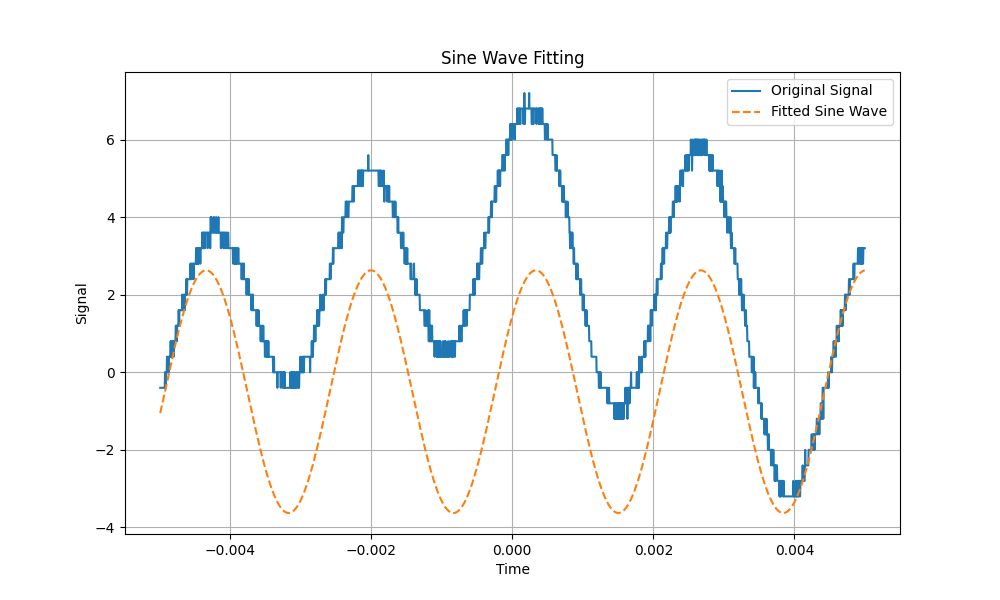
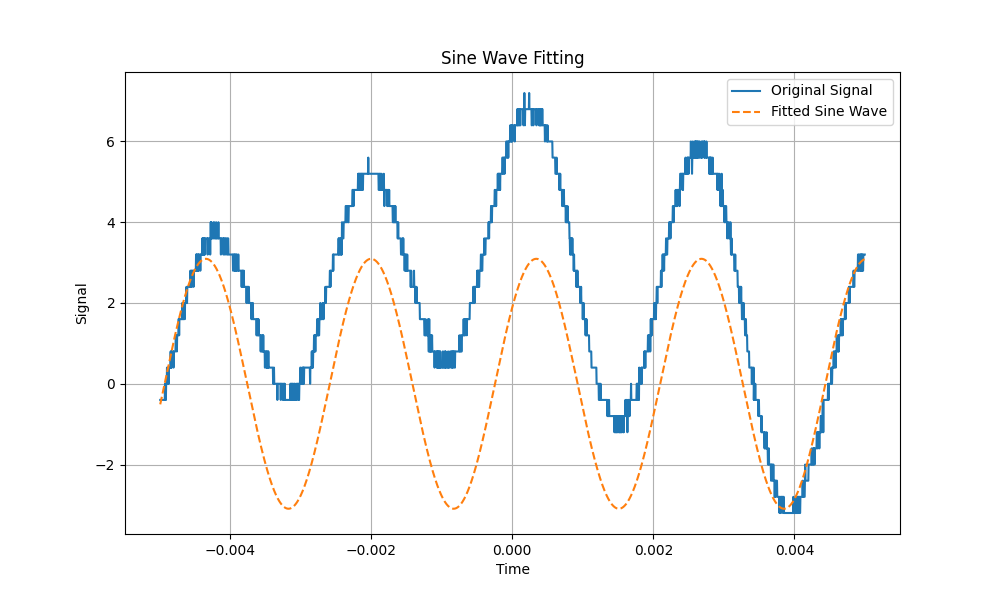
Final changes to the analysis, added graphs

diff --git a/scripts/analysis/SNR_analysis.py b/scripts/analysis/SNR_analysis.py
@@ -58,11 +58,20 @@ def calculate_snr(signal, noise):
 
     Returns:
     - snr: Signal-to-Noise Ratio in dB
+    - snr_error: Error in the SNR value in dB
     """
     signal_power = np.mean(signal ** 2)
     noise_power = np.mean(noise ** 2)
     snr = 10 * np.log10(signal_power / noise_power)
-    return snr
+
+    # Assume a percentage error for signal and noise power
+    error_percentage = 0.005  # 0.5%
+    sigma_signal = signal_power * error_percentage
+    sigma_noise = noise_power * error_percentage
+
+    # Error propagation for SNR in dB
+    snr_error = (10 / np.log(10)) * np.sqrt((sigma_signal / signal_power) ** 2 + (sigma_noise / noise_power) ** 2)
+    return snr, snr_error
 
 def calculate_average_power_ratio(signal, noise):
     """
@@ -103,16 +112,15 @@ def plot_signal_and_noise(time, signal, noise, output_path, title='Signal and No
     plt.close()
     print(f"Saved plot to {output_path}")
 
-def process_files(input_dir, output_dir, cutoff_frequency, sampling_frequency, output_file):
+def process_files(input_dir, output_dir, cutoff_frequency, sampling_frequency):
     """
-    Process all CSV files in the input directory and save the analysis results to an output file.
+    Process all CSV files in the input directory and print the analysis results to the terminal.
 
     Parameters:
     - input_dir: Path to the input directory containing CSV files
     - output_dir: Path to the output directory to save plot images
     - cutoff_frequency: Cutoff frequency for the high-pass filter in Hz
     - sampling_frequency: Sampling frequency in Hz
-    - output_file: Path to the output CSV file to save analysis results
     """
     # Set up logging
     logging.basicConfig(level=logging.INFO, format='%(asctime)s - %(levelname)s - %(message)s')
@@ -127,8 +135,6 @@ def process_files(input_dir, output_dir, cutoff_frequency, sampling_frequency, o
         logging.info(f"No CSV files found in {input_dir}")
         return
 
-    results = []
-
     for file_path in csv_files:
         try:
             # Load data
@@ -137,18 +143,17 @@ def process_files(input_dir, output_dir, cutoff_frequency, sampling_frequency, o
             # Estimate noise using a high-pass filter
             estimated_noise = high_pass_filter(signal, cutoff_frequency, sampling_frequency)
 
-            # Calculate SNR
-            snr = calculate_snr(signal, estimated_noise)
+            # Calculate SNR and its error
+            snr, snr_error = calculate_snr(signal, estimated_noise)
 
             # Calculate average power ratio
             power_ratio = calculate_average_power_ratio(signal, estimated_noise)
 
-            # Append results
-            results.append({
-                'File': os.path.basename(file_path),
-                'SNR (dB)': snr,
-                'Average Power Ratio (Noise/Signal)': power_ratio
-            })
+            # Print results to the terminal
+            print(f"Results for {os.path.basename(file_path)}:")
+            print(f"  SNR (dB): {snr:.2f}")
+            print(f"  SNR Error (dB): {snr_error:.2f}")
+            print(f"  Average Power Ratio (Noise/Signal): {power_ratio:.10f}")
 
             # Plot signal and noise
             output_plot_path = os.path.join(output_dir, f"{os.path.splitext(os.path.basename(file_path))[0]}_plot.png")
@@ -159,15 +164,9 @@ def process_files(input_dir, output_dir, cutoff_frequency, sampling_frequency, o
         except Exception as e:
             logging.error(f"Error processing {file_path}: {e}")
 
-    # Save results to a CSV file
-    results_df = pd.DataFrame(results)
-    results_df.to_csv(output_file, index=False)
-    logging.info(f"Saved analysis results to {output_file}")
-
 # Example usage
 input_dir = '../../data/FinalData'
 output_dir = '../../data/FinalData/SNR_Plots'
 cutoff_frequency = 50  # Cutoff frequency for the high-pass filter in Hz
 sampling_frequency = 1000  # Sampling frequency in Hz
-output_file = '../../data/FinalData/SNR_results.csv'
-process_files(input_dir, output_dir, cutoff_frequency, sampling_frequency, output_file)
+process_files(input_dir, output_dir, cutoff_frequency, sampling_frequency)

diff --git a/scripts/analysis/strain_calc.py b/scripts/analysis/strain_calc.py
@@ -6,7 +6,9 @@ import os
 # Constants
 wavelength = 632.8e-9  # Wavelength of the laser in meters
 I0 = 1  # Maximum intensity (assuming normalized intensity)
-arm_length = 1.0  # Length of the interferometer arm in meters
+arm_length = 1.43  # Length of the interferometer arm in meters
+error_intensity = 0.025  # 0.5% error on intensity measurements
+error_length = 0.025  # 0.5% error on length measurements
 
 def normalize_intensity(intensity):
     """
@@ -50,6 +52,22 @@ def calculate_strain(displacement, arm_length):
     strain = displacement / arm_length
     return strain
 
+def error_propagation(intensity, displacement, arm_length):
+    """
+    Perform error propagation to calculate the error in strain.
+
+    Parameters:
+    - intensity: Signal intensity array
+    - displacement: Displacement array in meters
+    - arm_length: Length of the interferometer arm in meters
+
+    Returns:
+    - error_strain: Error in strain array
+    """
+    error_displacement = (wavelength / (4 * np.pi)) * (1 / np.sqrt(1 - ((intensity - I0) / I0)**2)) * error_intensity
+    error_strain = np.sqrt((error_displacement / arm_length)**2 + (displacement * error_length / arm_length**2)**2)
+    return error_strain
+
 def load_data(file_path):
     """
     Load data from a CSV file.
@@ -66,21 +84,37 @@ def load_data(file_path):
     intensity = data['Signal'].values
     return time, intensity
 
-def plot_strain(time, strain, output_path=None):
+def plot_strain(time, strain, error_strain, output_path=None):
     """
-    Plot the strain.
+    Plot the strain with error lines.
 
     Parameters:
     - time: Time array
     - strain: Strain array
+    - error_strain: Error in strain array
     - output_path: Path to save the plot image (if None, display the plot)
     """
+    # Remove points with infinite values in the error
+    finite_mask = np.isfinite(error_strain)
+    time_finite = time[finite_mask]
+    strain_finite = strain[finite_mask]
+    error_strain_finite = error_strain[finite_mask]
+
     plt.figure(figsize=(10, 6))
-    plt.plot(time, strain)
-    plt.title('Strain of the Interferometer Arm')
+    plt.plot(time_finite, strain_finite, label='Strain')
+    
+    # Calculate the positive and negative error curves
+    strain_plus = strain_finite + error_strain_finite
+    strain_minus = strain_finite - error_strain_finite
+
+    plt.plot(time_finite, strain_plus, label='Positive Error', linestyle='--', color='grey', linewidth = 0.5)
+    plt.plot(time_finite, strain_minus, label='Negative Error', linestyle='--', color='grey', linewidth = 0.5)
+
+    plt.title('Strain of the Interferometer Arm with Error Lines')
     plt.xlabel('Time')
     plt.ylabel('Strain')
     plt.grid(True)
+    plt.legend()
     
     if output_path:
         plt.savefig(output_path)
@@ -119,11 +153,15 @@ def process_datasets(input_dir, output_dir):
         # Calculate the strain
         strain = calculate_strain(displacement, arm_length)
 
-        # Plot the strain
-        plot_strain(time, strain, output_path)
+        # Perform error propagation
+        error_strain = error_propagation(normalized_intensity, displacement, arm_length)
 
-        # Print the first few strain values
+        # Plot the strain with error lines
+        plot_strain(time, strain, error_strain, output_path)
+
+        # Print the first few strain values and their errors
         print(f"Strain values for {filename}: {strain[:5]}")
+        print(f"Error in strain for {filename}: {error_strain[:5]}")
 
 # Example usage
 input_dir = '../../data/FinalData'

diff --git a/scripts/analysis/curve_fit.py b/scripts/analysis/curve_fit.py
@@ -18,7 +18,7 @@ def sine(x, amp, freq, phase):
     Returns:
     - Sine wave output
     """
-    offset = -0.5  # Fixed offset
+    offset = 0  # Fixed offset
     return amp * np.sin(2 * np.pi * freq * x + phase) + offset
 
 def fit_sine(time, signal):
@@ -31,17 +31,24 @@ def fit_sine(time, signal):
 
     Returns:
     - popt: Optimal values for the parameters
-    - pcov: Covariance of the parameters
+    - perr: Standard deviation errors of the parameters
+    - chi_squared: Chi-squared value of the fit
     """
     # Initial guess for the parameters
     guess_amplitude = 6  # np.std(signal) * 2**0.5
-    guess_frequency = 450
+    guess_frequency = 400
     guess_phase = np.pi / 4
     p0 = [guess_amplitude, guess_frequency, guess_phase]
 
     # Fit the sine wave
     popt, pcov = curve_fit(sine, time, signal, p0=p0)
-    return popt, pcov
+    perr = np.sqrt(np.diag(pcov))  # Calculate the standard deviation errors
+
+    # Calculate the chi-squared value
+    residuals = signal - sine(time, *popt)
+    chi_squared = np.sum((residuals ** 2) / signal)
+
+    return popt, perr, chi_squared
 
 def plot_fit(time, signal, popt, output_path):
     """
@@ -86,7 +93,7 @@ def process_files(input_dir, output_dir):
         signal = data['Signal'].values
 
         # Fit a sine wave to the data
-        popt, pcov = fit_sine(time, signal)
+        popt, perr, chi_squared = fit_sine(time, signal)
 
         # Generate output plot path
         file_name = os.path.basename(file_path)
@@ -95,8 +102,13 @@ def process_files(input_dir, output_dir):
         # Plot the original data and the fitted sine wave
         plot_fit(time, signal, popt, output_path)
 
-        # Print the optimal parameters
-        print(f"Optimal parameters for {file_name}: Amplitude={popt[0]}, Frequency={popt[1]}, Phase={popt[2]}, Offset=-0.5")
+        # Print the optimal parameters, their errors, and the chi-squared value
+        print(f"Optimal parameters for {file_name}:")
+        print(f"  Amplitude = {popt[0]} ± {perr[0]}")
+        print(f"  Frequency = {popt[1]} ± {perr[1]}")
+        print(f"  Phase = {popt[2]} ± {perr[2]}")
+        print(f"  Offset = -0.5 (fixed)")
+        print(f"  Chi-squared = {chi_squared}")
 
 # Example usage
 input_dir = '../../data/FinalData'

diff --git a/scripts/analysis/FT_analysis.py b/scripts/analysis/FT_analysis.py
@@ -61,6 +61,7 @@ def plot_frequency_spectrum(freqs, magnitude, output_path=None):
     plt.xlabel('Frequency (Hz)')
     plt.ylabel('Magnitude')
     plt.grid(True)
+    plt.xlim(0, 5000)  # Adjust the x-axis limit to focus on the range of interest
     
     if output_path:
         plt.savefig(output_path)
@@ -68,6 +69,24 @@ def plot_frequency_spectrum(freqs, magnitude, output_path=None):
         print(f"Saved plot to {output_path}")
     else:
         plt.show()
+
+def calculate_dominant_frequency(freqs, magnitude, error_percentage=0.005):
+    """
+    Calculate the dominant frequency and its error.
+
+    Parameters:
+    - freqs: Frequencies corresponding to the FT
+    - magnitude: Magnitude of the FT
+    - error_percentage: Percentage error for all measurements
+
+    Returns:
+    - dominant_freq: Dominant frequency
+    - error_freq: Error in the dominant frequency
+    """
+    dominant_index = np.argmax(magnitude)
+    dominant_freq = freqs[dominant_index]
+    error_freq = dominant_freq * error_percentage
+    return dominant_freq, error_freq
 
 def process_datasets(input_dir, output_dir, sampling_rate, save_plots):
     """
@@ -100,13 +119,17 @@ def process_datasets(input_dir, output_dir, sampling_rate, save_plots):
             # Plot the frequency spectrum
             plot_frequency_spectrum(freqs, magnitude, output_path)
 
+            # Calculate the dominant frequency and its error
+            dominant_freq, error_freq = np.abs(calculate_dominant_frequency(freqs, magnitude))
+            print(f"Dominant frequency for {filename}: {dominant_freq:.2f} Hz ± {error_freq:.2f} Hz")
+
         except Exception as e:
             print(f"Error processing {file_path}: {e}")
 
 # Example usage
 input_dir = '../../data/FinalData'
 output_dir = '../../data/FinalData/FFT_Plots'
-sampling_rate = 1000  # Assuming a sampling rate of 1000 Hz for the example
+sampling_rate = 250000 # Taken from oscilloscope info in the initial CSV files
 
 # Prompt the user whether to save the plots or display them
 save_plots_input = input("Do you want to save the plots to files? (yes/no): ").strip().lower()

diff --git a/scripts/model.py b/scripts/model.py
@@ -1,0 +1,62 @@
+import numpy as np
+import pandas as pd
+import matplotlib.pyplot as plt
+
+def load_data(file_path, signal_column):
+    """
+    Load data from a CSV file.
+
+    Parameters:
+    - file_path: Path to the CSV file
+    - signal_column: Name of the column containing the signal data
+
+    Returns:
+    - time: Time array
+    - signal: Signal array
+    """
+    data = pd.read_csv(file_path)
+    time = data['Path Difference (micrometers)'].values
+    signal = data[signal_column].values
+    return time, signal
+
+def plot_data(time, combined_signal, output_path=None):
+    """
+    Plot the combined signal.
+
+    Parameters:
+    - time: Time array
+    - combined_signal: Combined signal array
+    - output_path: Path to save the plot image (if None, display the plot)
+    """
+    plt.figure(figsize=(10, 6))
+    plt.plot(time, combined_signal, label='Combined Signal')
+    plt.title('Combined Interference Pattern and Noise')
+    plt.xlabel('Path Difference (micrometers)')
+    plt.ylabel('Signal')
+    plt.legend()
+    plt.grid(True)
+    
+    if output_path:
+        plt.savefig(output_path)
+        plt.close()
+        print(f"Saved plot to {output_path}")
+    else:
+        plt.show()
+
+# Load data from CSV files
+time_interference, interference_pattern = load_data('../data/interference_pattern.csv', 'Intensity')
+time_noise, noise = load_data('../data/noise.csv', 'Noise')
+
+# Ensure the time arrays are the same
+if not np.array_equal(time_interference, time_noise):
+    raise ValueError("Time arrays from the two files do not match.")
+
+# Add the interference pattern and noise together
+combined_signal = interference_pattern + noise
+
+# Plot the combined signal
+plot_data(time_interference, combined_signal, output_path='../data/combined_signal_plot.png')
+
+# Print the first few values of the combined signal
+print("First few values of the combined signal:")
+print(combined_signal[:5])
